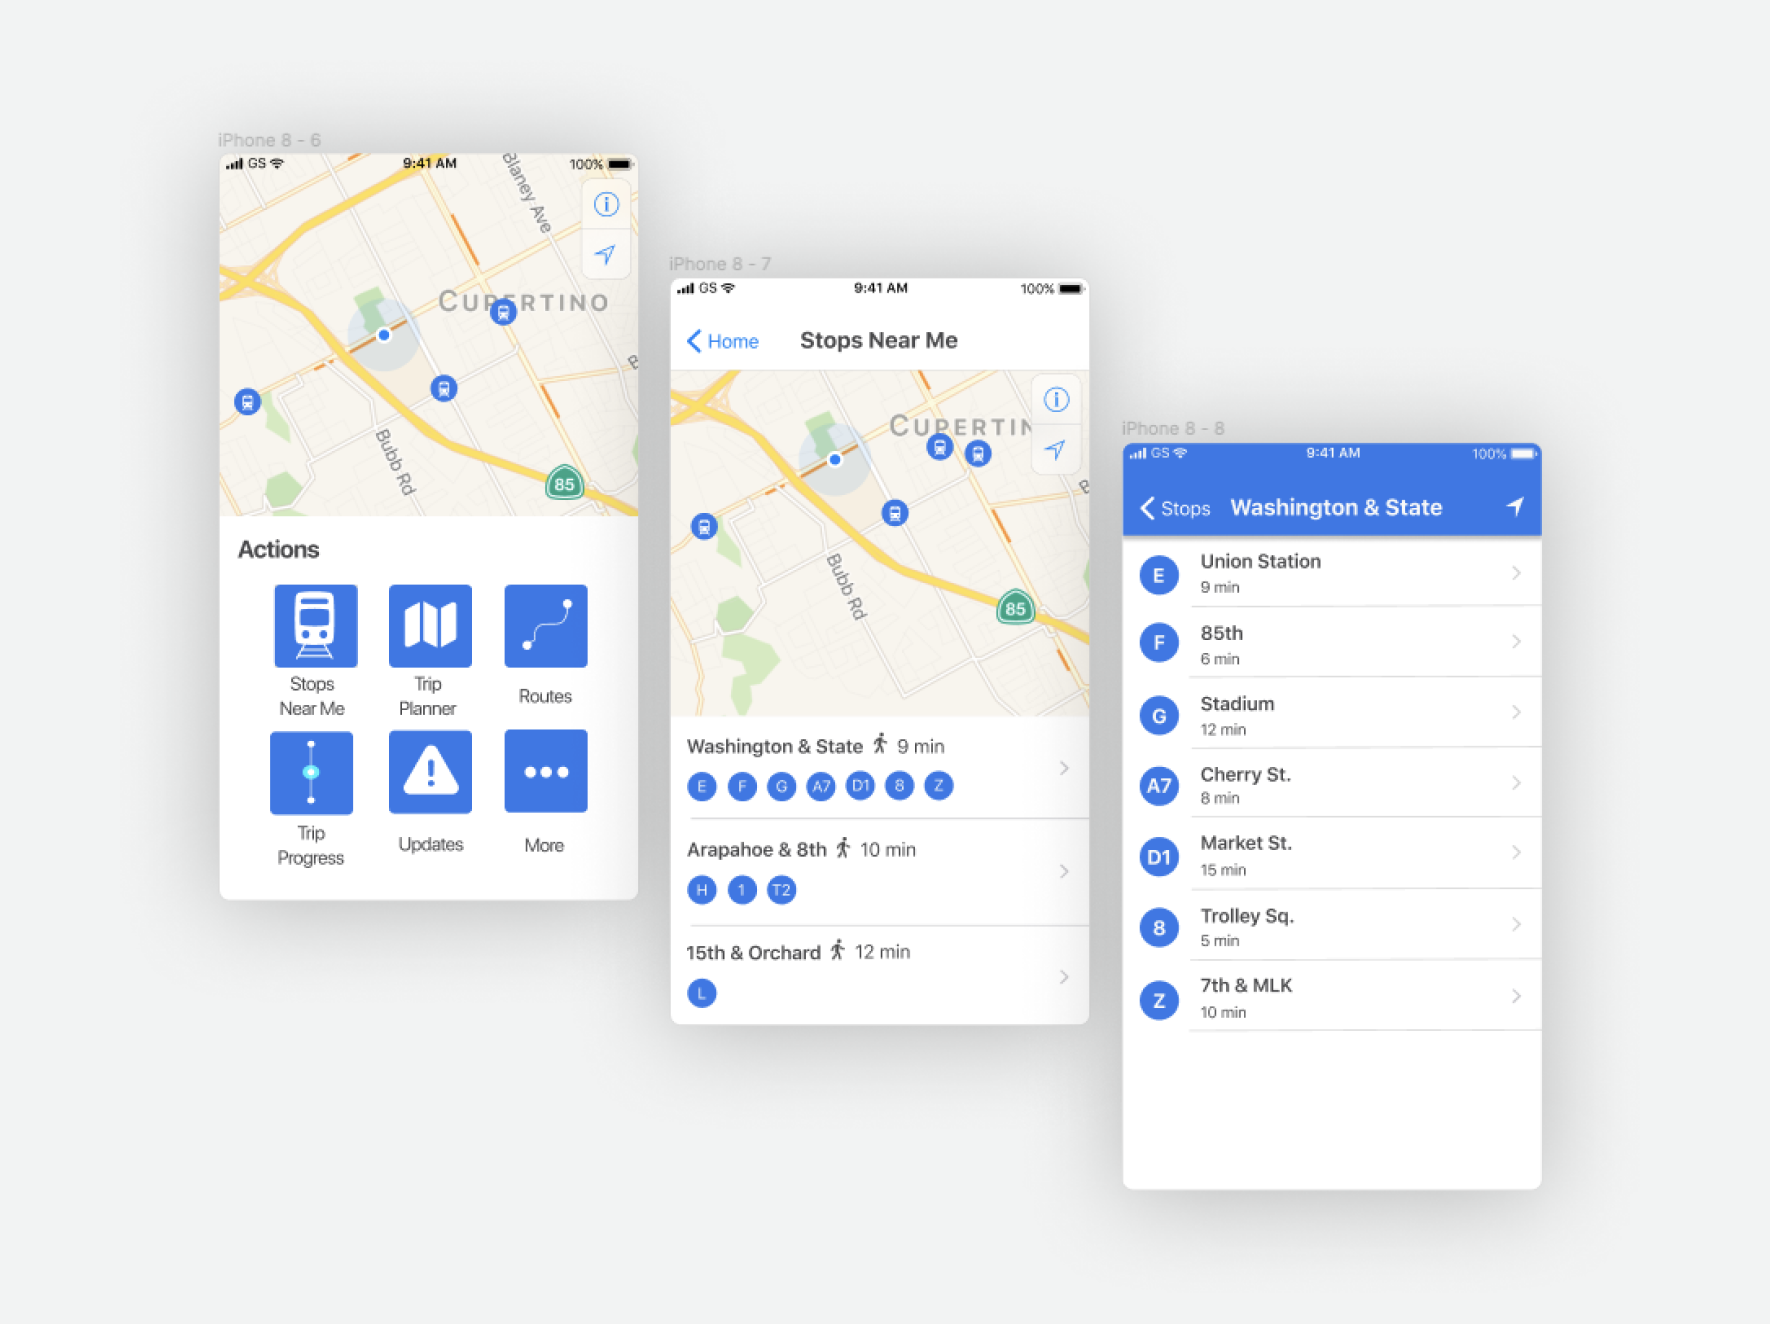
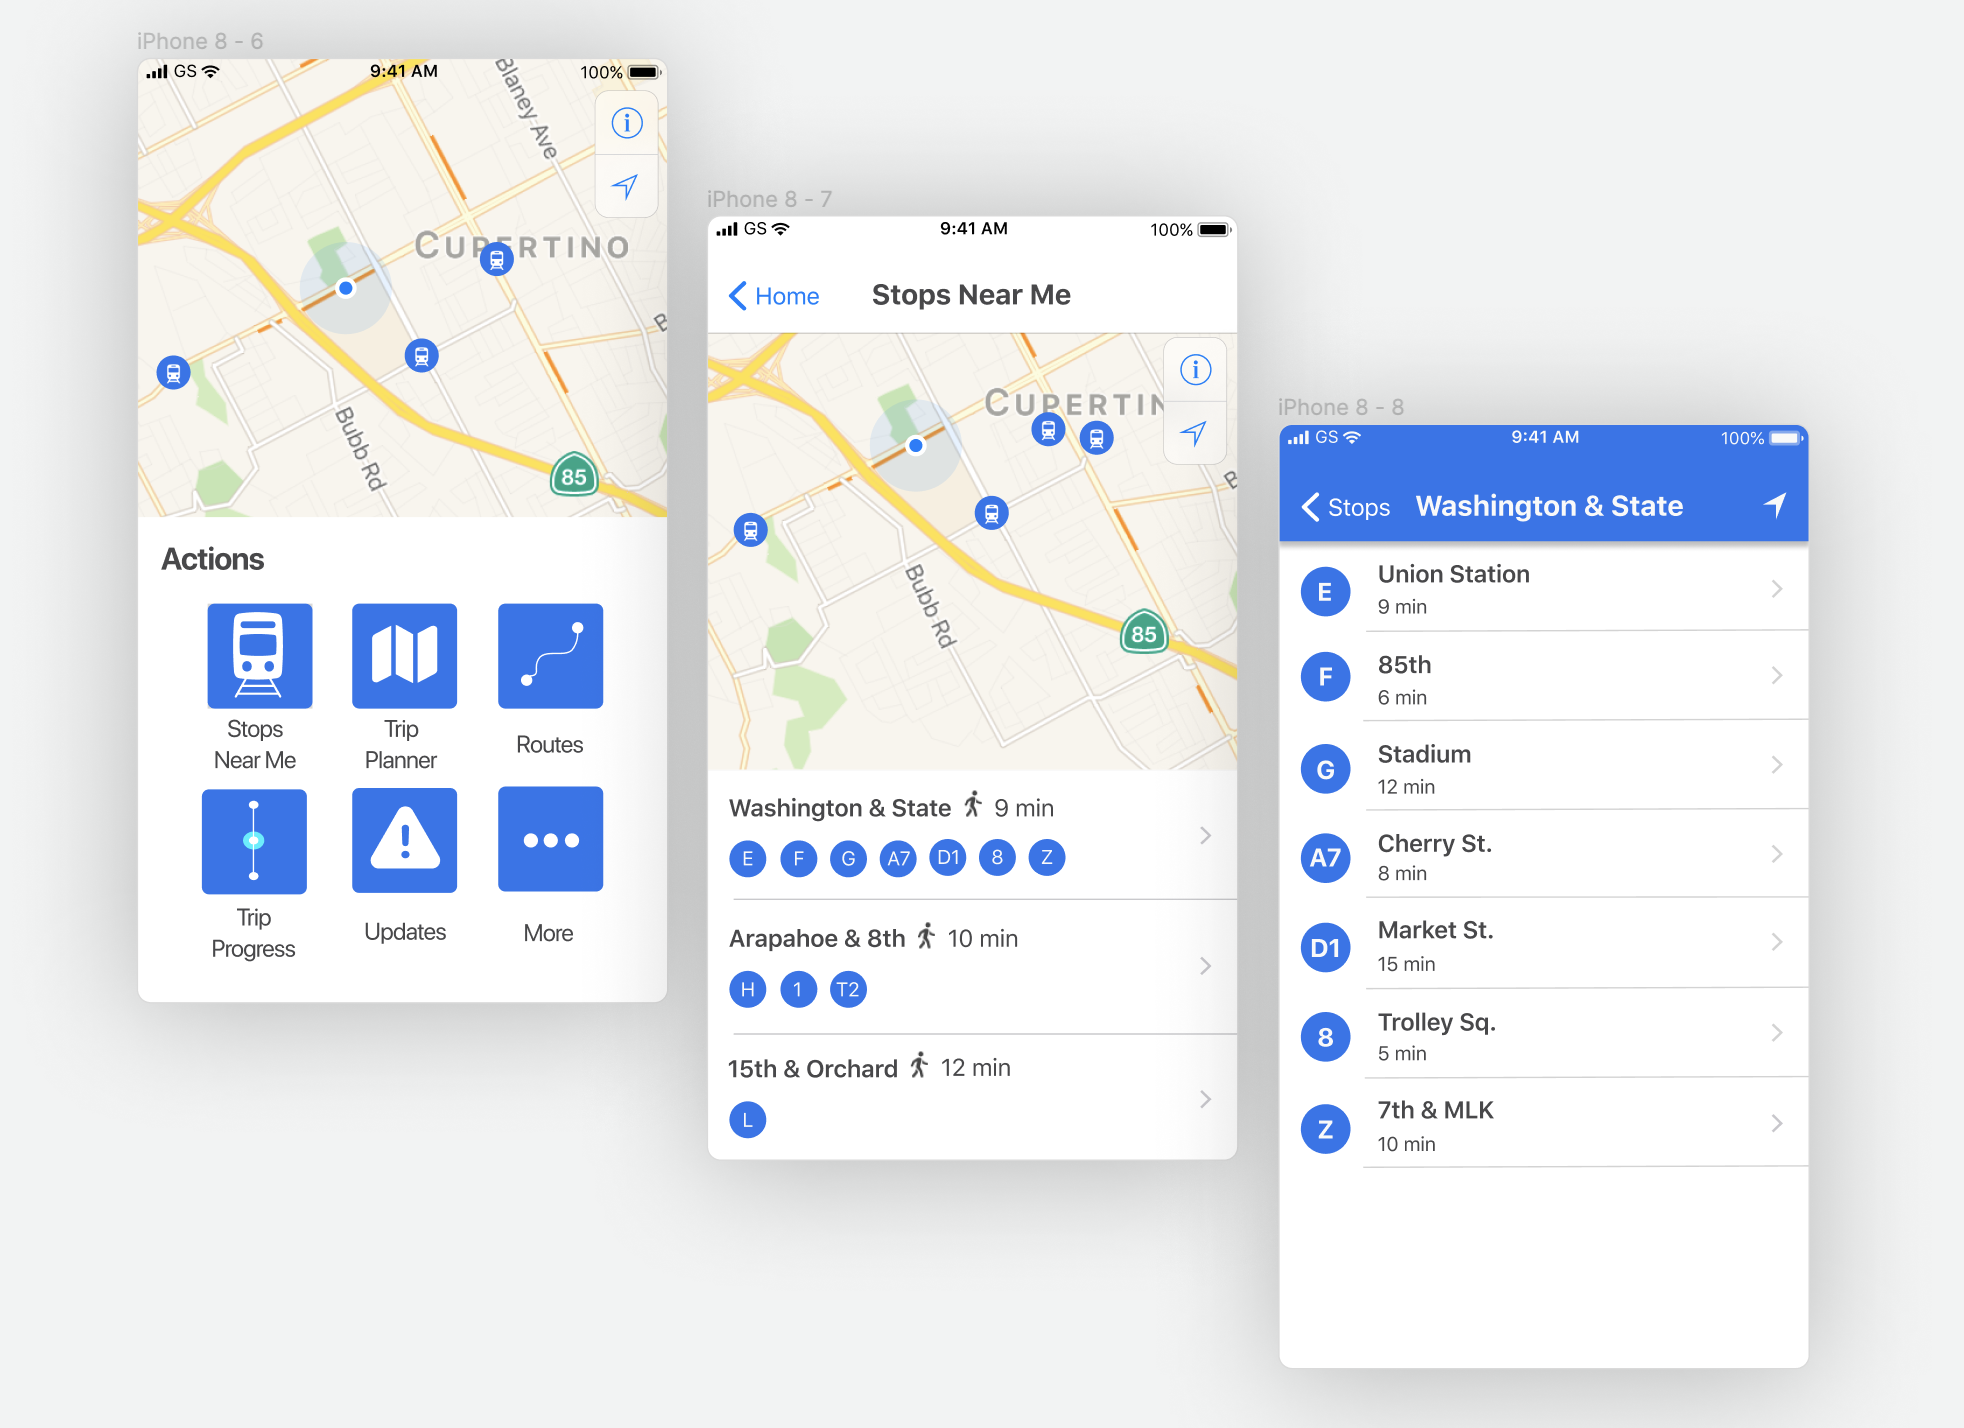
fixed blurry images, changed homepage hero

Changed region(s): [[0.0621, 0.031, 0.9322, 0.898], [0.6525, 0.898, 0.9011, 0.9909]]

diff --git a/styles/busyBusProject.css b/styles/busyBusProject.css
@@ -605,9 +605,10 @@ h5 {
   h5 {
     font-size: 2.5rem;
     font-weight: 500;
+    justify-content: flex-start;
     margin: auto;
     padding-bottom: 2em;
-    padding-left: 5%;
+    padding-left: 5.5%;
     padding-top: 3em;
 
   }
@@ -721,7 +722,7 @@ h5 {
   .connectText {
     font-family: "Source Sans Pro", sans-serif;
     font-size: 2rem;
-    font-weight: 400;
+    font-weight: 300;
     line-height: 1.75em;
     margin: 0 12%;
     padding-top: 0em;
@@ -1067,6 +1068,9 @@ h5 {
 
 @media only screen and (min-width: 1224px) {
 
+  h5 {
+    padding-left: 5%;
+  }
 
   .finalSubtitle {
     margin-left: 4.25%;
@@ -1172,6 +1176,12 @@ h5 {
     width:.25em;
     background-color: #373636;
   }
+
+  .visualImage {
+    padding-top: 3em;
+    width: 50%;
+  }
+
 
 }
 

diff --git a/index.html b/index.html
@@ -5,7 +5,7 @@
     <meta name="viewport" content="width=device-width, initial-scale=1.0">
     <title>Portfolio | Katy Wellington</title>
     <link rel="stylesheet" href="styles/reset.css">
-    <link rel="stylesheet" href="styles/main.css">
+    <link rel="stylesheet" href="styles/index.css">
     <link href="https://fonts.googleapis.com/css2?family=Source+Sans+Pro:wght@300&display=swap" rel="stylesheet">
     <link href="https://fonts.googleapis.com/css2?family=Source+Sans+Pro:wght@300;400&display=swap" rel="stylesheet">
     <link href="https://fonts.googleapis.com/css2?family=Noto+Serif&display=swap" rel="stylesheet">

diff --git a/styles/aboutme.css b/styles/aboutme.css
@@ -358,7 +358,7 @@ h4 {
 
   .connectText {
     font-size: 2rem;
-    font-weight: 400;
+    font-weight: 300;
     line-height: 1.75em;
     margin: 0 12%;
 

diff --git a/styles/cloudedProject.css b/styles/cloudedProject.css
@@ -932,7 +932,7 @@ h5 {
 
   .connectText {
     font-size: 2rem;
-    font-weight: 400;
+    font-weight: 300;
     margin: 0 12%;
 
   }
